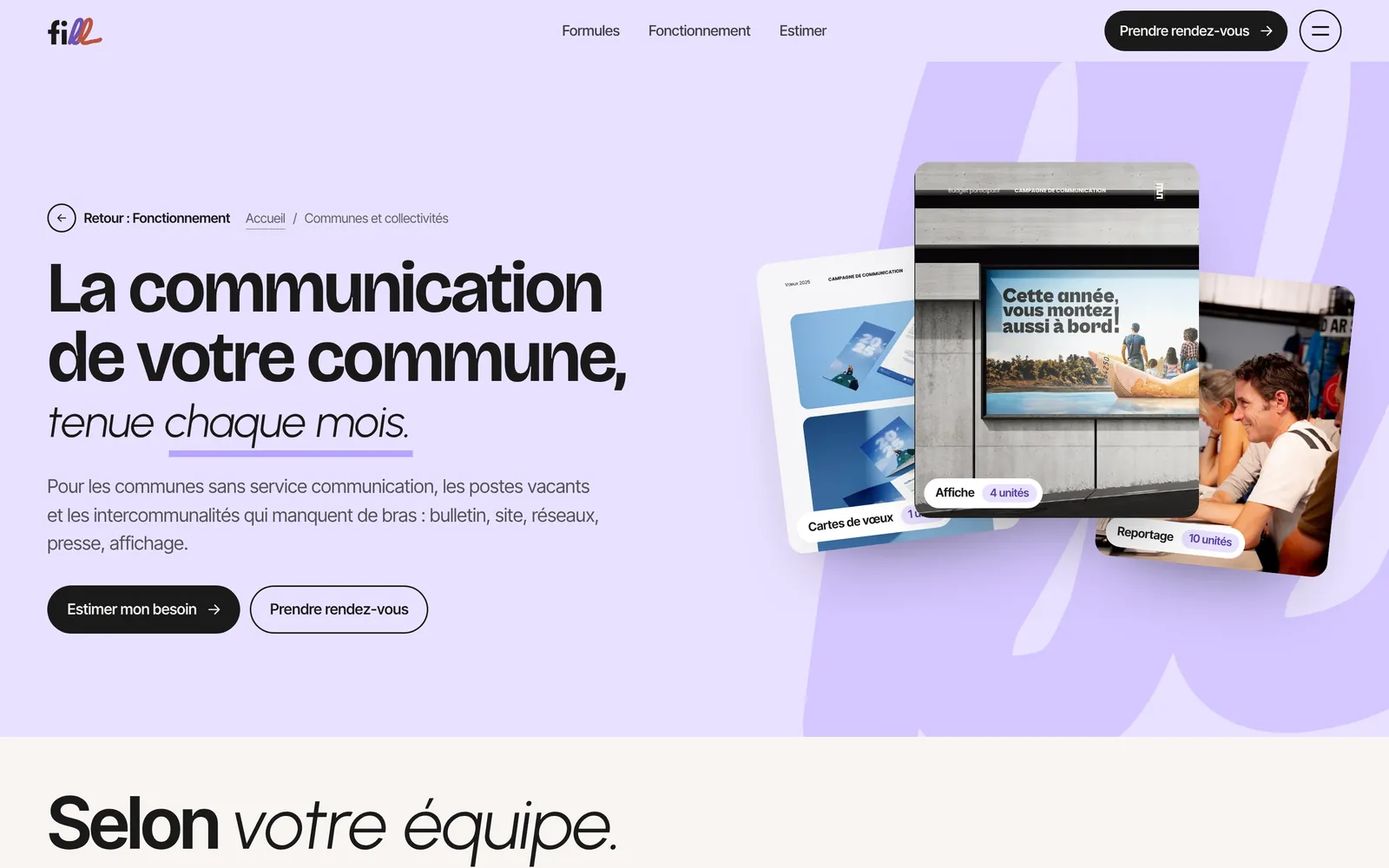
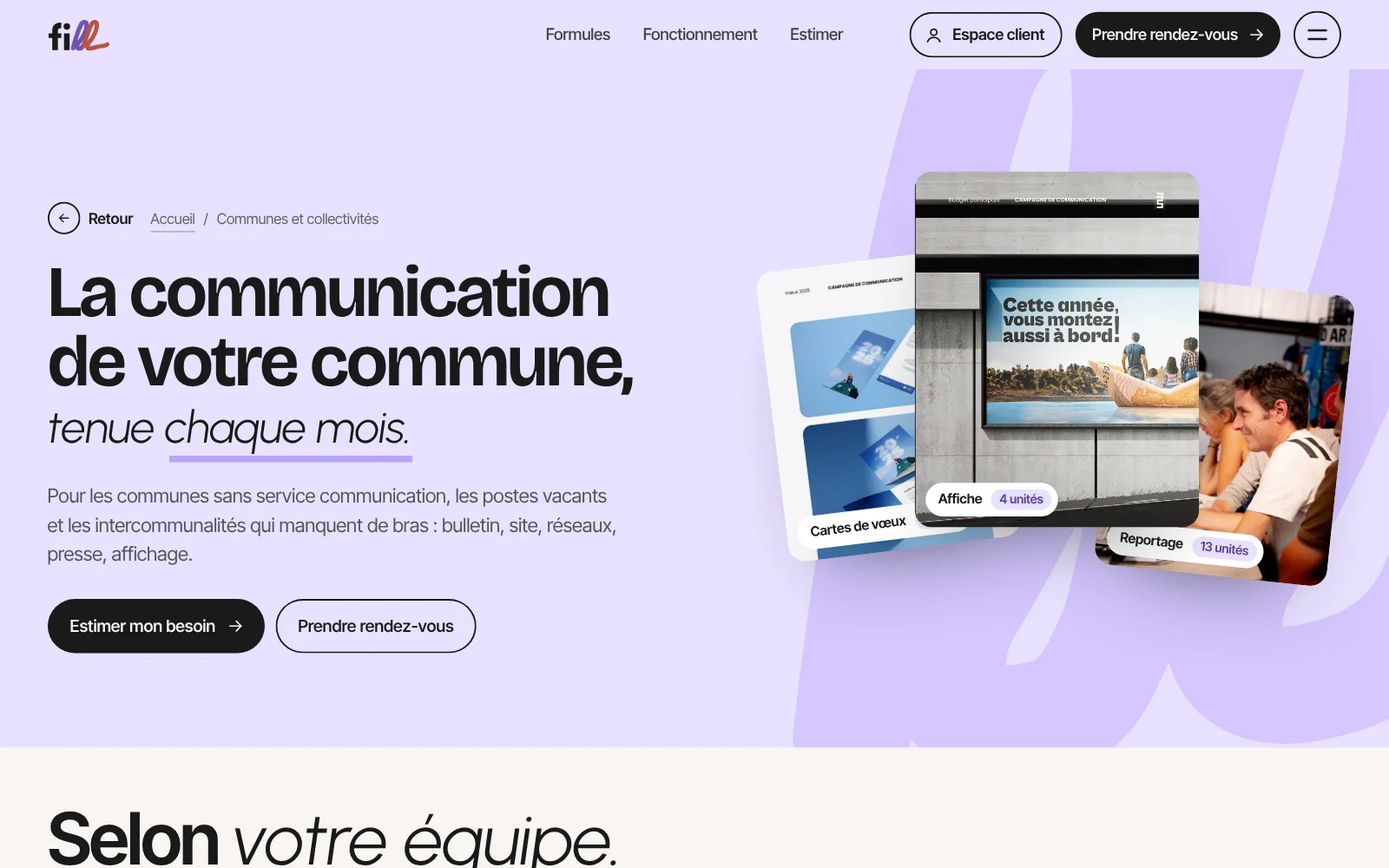
Projet Fill : captures Formules et Collectivités à l'offre en vigueur (15 unités, reportage 13), simulateur en cinq questions
Claude-Session: https://claude.ai/code/session_01C8UkoNAeXmpRadbBmaTEQf

diff --git a/metiers/sites-et-outils/index.html b/metiers/sites-et-outils/index.html
@@ -109,7 +109,7 @@
   <span class="fg" style="left:-2vw;bottom:-.34em;--vy:-80px;font-size:calc(var(--fg-t) * .8)" aria-hidden="true">Écrans</span>
   <div class="w">
     <div class="sec-t rv"><div><p class="pt"><i>01</i><span>Réalisations</span></p><h2 class="d" id="t-vi">Réalisations web<span class="it">Un projet, un usage.</span></h2></div></div>
-    <div class="vi rv"><div class="vt" role="tablist" aria-label="Projets web"><button type="button" role="tab" id="vt-pierceval" aria-controls="vp-pierceval" aria-selected="true"><b>Pierceval Tattoo</b><span>Site, réservation, carte cadeau</span></button><button type="button" role="tab" id="vt-soute" aria-controls="vp-soute" aria-selected="false" tabindex="-1"><b>La Soute</b><span>Site de saison et billetterie</span></button><button type="button" role="tab" id="vt-fill" aria-controls="vp-fill" aria-selected="false" tabindex="-1"><b>Fill</b><span>Marque, site et simulateur</span></button><button type="button" role="tab" id="vt-flouz" aria-controls="vp-flouz" aria-selected="false" tabindex="-1"><b>flouz.</b><span>Application de budget</span></button><button type="button" role="tab" id="vt-plateforme" aria-controls="vp-plateforme" aria-selected="false" tabindex="-1"><b>Plateforme interne</b><span>Outil de gestion</span></button></div><div class="vp" role="tabpanel" id="vp-pierceval" aria-labelledby="vt-pierceval"><div class="vp-t"><p class="vp-k">Fonctionnalités</p><div class="vp-f"><button type="button" aria-pressed="true" data-j="0"><b>Accueil</b><span>Les deux métiers dès l’ouverture, et la prise de rendez-vous à portée de pouce.</span></button><button type="button" aria-pressed="false" data-j="1"><b>Réservation</b><span>Deux parcours, tatouage ou piercing : la demande arrive complète, avec le projet et les disponibilités.</span></button><button type="button" aria-pressed="false" data-j="2"><b>Carte cadeau</b><span>Montant, message et destinataire choisis en ligne ; la carte arrive en PDF, prête à offrir.</span></button><button type="button" aria-pressed="false" data-j="3"><b>Réalisations</b><span>Les tatouages classés par style, pour se décider avant même d’appeler.</span></button></div><p class="vp-da"><b>Direction artistique</b>Identité et site conçus ensemble : un fond prune, un rose franc, un lettrage italique qui rappelle l’enseigne.</p><a class="bt" href="/projets/pierceval-tattoo/">Voir l’étude de cas <span class="ar"><svg class="i"><use href="#ar"/></svg></span></a></div><div class="vp-s"><div class="vsc on" data-j="0"><div class="vs vs-ecran"><div class="vs-ec"><div class="wb-bar"><i></i><i></i><i></i><em>piercevaltattoo.fr</em></div><div class="vs-pg"><img data-v="d" src="/projets/pierceval-tattoo/img/d-hero.webp" srcset="/projets/pierceval-tattoo/img/d-hero-800.webp 800w, /projets/pierceval-tattoo/img/d-hero.webp 1440w" sizes="(max-width:860px) 92vw, 50vw" alt="Pierceval Tattoo sur ordinateur" loading="lazy"></div></div><div class="vs-tel"><img data-v="m" src="/projets/pierceval-tattoo/img/t-hero.webp" alt="Pierceval Tattoo sur téléphone" loading="lazy"></div></div></div><div class="vsc" data-j="1" hidden><div class="vs vs-ecran"><div class="vs-ec"><div class="wb-bar"><i></i><i></i><i></i><em>piercevaltattoo.fr</em></div><div class="vs-pg"><img data-v="d" src="/projets/pierceval-tattoo/img/d-rdv-type.webp" srcset="/projets/pierceval-tattoo/img/d-rdv-type-800.webp 800w, /projets/pierceval-tattoo/img/d-rdv-type.webp 1440w" sizes="(max-width:860px) 92vw, 50vw" alt="Pierceval Tattoo sur ordinateur" loading="lazy"></div></div><div class="vs-tel"><img data-v="m" src="/projets/pierceval-tattoo/img/t-rdv-type.webp" alt="Pierceval Tattoo sur téléphone" loading="lazy"></div></div></div><div class="vsc" data-j="2" hidden><div class="vs vs-ecran"><div class="vs-ec"><div class="wb-bar"><i></i><i></i><i></i><em>piercevaltattoo.fr</em></div><div class="vs-pg"><img data-v="d" src="/projets/pierceval-tattoo/img/d-cadeau-ok.webp" srcset="/projets/pierceval-tattoo/img/d-cadeau-ok-800.webp 800w, /projets/pierceval-tattoo/img/d-cadeau-ok.webp 1440w" sizes="(max-width:860px) 92vw, 50vw" alt="Pierceval Tattoo sur ordinateur" loading="lazy"></div></div><div class="vs-tel"><img data-v="m" src="/projets/pierceval-tattoo/img/t-cadeau.webp" alt="Pierceval Tattoo sur téléphone" loading="lazy"></div></div></div><div class="vsc" data-j="3" hidden><div class="vs vs-ecran"><div class="vs-ec"><div class="wb-bar"><i></i><i></i><i></i><em>piercevaltattoo.fr</em></div><div class="vs-pg"><img data-v="d" src="/projets/pierceval-tattoo/img/d-real.webp" srcset="/projets/pierceval-tattoo/img/d-real-800.webp 800w, /projets/pierceval-tattoo/img/d-real.webp 1440w" sizes="(max-width:860px) 92vw, 50vw" alt="Pierceval Tattoo sur ordinateur" loading="lazy"></div></div><div class="vs-tel"><img data-v="m" src="/projets/pierceval-tattoo/img/t-real.webp" alt="Pierceval Tattoo sur téléphone" loading="lazy"></div></div></div></div></div><div class="vp" role="tabpanel" id="vp-soute" aria-labelledby="vt-soute" hidden><div class="vp-t"><p class="vp-k">Fonctionnalités</p><div class="vp-f"><button type="button" aria-pressed="true" data-j="0"><b>Accueil</b><span>La saison en une phrase, le prochain concert et l’accès direct à l’agenda.</span></button><button type="button" aria-pressed="false" data-j="1"><b>Agenda</b><span>Toute la saison, filtrée par style et par mois, une ligne par date.</span></button><button type="button" aria-pressed="false" data-j="2"><b>Billetterie</b><span>Les places se choisissent par tarif sans quitter la fiche du concert.</span></button><button type="button" aria-pressed="false" data-j="3"><b>Menu</b><span>Les concerts du mois, les styles et le temps fort, dès le survol du menu.</span></button></div><p class="vp-da"><b>Direction artistique</b>Le O de Soute devient un hublot : le même signe sert de logo, de cadre photo et de repère sur le site, la brochure et les affiches.</p><a class="bt" href="/projets/la-soute/">Voir l’étude de cas <span class="ar"><svg class="i"><use href="#ar"/></svg></span></a></div><div class="vp-s"><div class="vsc on" data-j="0"><div class="vs vs-ecran"><div class="vs-ec"><div class="wb-bar"><i></i><i></i><i></i><em></em></div><div class="vs-pg"><img data-v="d" src="/projets/la-soute/img/d-accueil.webp" srcset="/projets/la-soute/img/d-accueil-800.webp 800w, /projets/la-soute/img/d-accueil.webp 1600w" sizes="(max-width:860px) 92vw, 50vw" alt="La Soute sur ordinateur" loading="lazy"></div></div><div class="vs-tel"><img data-v="m" src="/projets/la-soute/img/m-accueil.webp" alt="La Soute sur téléphone" loading="lazy"></div></div></div><div class="vsc" data-j="1" hidden><div class="vs vs-ecran"><div class="vs-ec"><div class="wb-bar"><i></i><i></i><i></i><em></em></div><div class="vs-pg"><img data-v="d" src="/projets/la-soute/img/d-agenda.webp" srcset="/projets/la-soute/img/d-agenda-800.webp 800w, /projets/la-soute/img/d-agenda.webp 1600w" sizes="(max-width:860px) 92vw, 50vw" alt="La Soute sur ordinateur" loading="lazy"></div></div><div class="vs-tel"><img data-v="m" src="/projets/la-soute/img/m-agenda.webp" alt="La Soute sur téléphone" loading="lazy"></div></div></div><div class="vsc" data-j="2" hidden><div class="vs vs-ecran"><div class="vs-ec"><div class="wb-bar"><i></i><i></i><i></i><em></em></div><div class="vs-pg"><img data-v="d" src="/projets/la-soute/img/d-billetterie.webp" srcset="/projets/la-soute/img/d-billetterie-800.webp 800w, /projets/la-soute/img/d-billetterie.webp 1600w" sizes="(max-width:860px) 92vw, 50vw" alt="La Soute sur ordinateur" loading="lazy"></div></div><div class="vs-tel"><img data-v="m" src="/projets/la-soute/img/m-billetterie.webp" alt="La Soute sur téléphone" loading="lazy"></div></div></div><div class="vsc" data-j="3" hidden><div class="vs vs-ecran"><div class="vs-ec"><div class="wb-bar"><i></i><i></i><i></i><em></em></div><div class="vs-pg"><img data-v="d" src="/projets/la-soute/img/d-menu.webp" srcset="/projets/la-soute/img/d-menu-800.webp 800w, /projets/la-soute/img/d-menu.webp 1600w" sizes="(max-width:860px) 92vw, 50vw" alt="La Soute sur ordinateur" loading="lazy"></div></div><div class="vs-tel"><img data-v="m" src="/projets/la-soute/img/m-menu.webp" alt="La Soute sur téléphone" loading="lazy"></div></div></div></div></div><div class="vp" role="tabpanel" id="vp-fill" aria-labelledby="vt-fill" hidden><div class="vp-t"><p class="vp-k">Fonctionnalités</p><div class="vp-f"><button type="button" aria-pressed="true" data-j="0"><b>Accueil</b><span>Une bascule commune ou entreprise change les exemples, les supports et le vocabulaire de toute la page.</span></button><button type="button" aria-pressed="false" data-j="1"><b>Simulateur</b><span>Quatre questions ou une composition libre : une formule recommandée, justifiée unité par unité.</span></button><button type="button" aria-pressed="false" data-j="2"><b>Fonctionnement</b><span>Comment une demande arrive, qui la traite et en combien de temps, écrit d’avance.</span></button><button type="button" aria-pressed="false" data-j="3"><b>Calendrier</b><span>Les temps forts de la saison, pour anticiper les campagnes.</span></button></div><p class="vp-da"><b>Direction artistique</b>Un nom qui se lit deux fois : « fil » en plein, le second « l » au trait. Un fond lavande, un violet franc pour l’action.</p><a class="bt" href="/projets/fill/">Voir l’étude de cas <span class="ar"><svg class="i"><use href="#ar"/></svg></span></a></div><div class="vp-s"><div class="vsc on" data-j="0"><div class="vs vs-ecran"><div class="vs-ec"><div class="wb-bar"><i></i><i></i><i></i><em>fill.studioes.fr</em></div><div class="vs-pg"><img data-v="d" src="/projets/fill/img/d-accueil.webp" srcset="/projets/fill/img/d-accueil-800.webp 800w, /projets/fill/img/d-accueil.webp 1600w" sizes="(max-width:860px) 92vw, 50vw" alt="Fill sur ordinateur" loading="lazy"></div></div><div class="vs-tel"><img data-v="m" src="/projets/fill/img/t-accueil.webp" alt="Fill sur téléphone" loading="lazy"></div></div></div><div class="vsc" data-j="1" hidden><div class="vs vs-ecran"><div class="vs-ec"><div class="wb-bar"><i></i><i></i><i></i><em>fill.studioes.fr</em></div><div class="vs-pg"><img data-v="d" src="/projets/fill/img/d-simulateur.webp" srcset="/projets/fill/img/d-simulateur-800.webp 800w, /projets/fill/img/d-simulateur.webp 1600w" sizes="(max-width:860px) 92vw, 50vw" alt="Fill sur ordinateur" loading="lazy"></div></div><div class="vs-tel"><img data-v="m" src="/projets/fill/img/t-simulateur.webp" alt="Fill sur téléphone" loading="lazy"></div></div></div><div class="vsc" data-j="2" hidden><div class="vs vs-ecran"><div class="vs-ec"><div class="wb-bar"><i></i><i></i><i></i><em>fill.studioes.fr</em></div><div class="vs-pg"><img data-v="d" src="/projets/fill/img/d-fonctionnement.webp" srcset="/projets/fill/img/d-fonctionnement-800.webp 800w, /projets/fill/img/d-fonctionnement.webp 1600w" sizes="(max-width:860px) 92vw, 50vw" alt="Fill sur ordinateur" loading="lazy"></div></div><div class="vs-tel"><img data-v="m" src="/projets/fill/img/t-fonctionnement.webp" alt="Fill sur téléphone" loading="lazy"></div></div></div><div class="vsc" data-j="3" hidden><div class="vs vs-ecran"><div class="vs-ec"><div class="wb-bar"><i></i><i></i><i></i><em>fill.studioes.fr</em></div><div class="vs-pg"><img data-v="d" src="/projets/fill/img/d-calendrier.webp" srcset="/projets/fill/img/d-calendrier-800.webp 800w, /projets/fill/img/d-calendrier.webp 1600w" sizes="(max-width:860px) 92vw, 50vw" alt="Fill sur ordinateur" loading="lazy"></div></div><div class="vs-tel"><img data-v="m" src="/projets/fill/img/t-calendrier.webp" alt="Fill sur téléphone" loading="lazy"></div></div></div></div></div><div class="vp" role="tabpanel" id="vp-flouz" aria-labelledby="vt-flouz" hidden><div class="vp-t"><p class="vp-k">Fonctionnalités</p><div class="vp-f"><button type="button" aria-pressed="true" data-j="0"><b>Tableau de bord</b><span>Le solde, le mois en cours et les dépenses épinglées sur un seul écran.</span></button><button type="button" aria-pressed="false" data-j="1"><b>Budgets</b><span>Chaque catégorie a sa jauge ; l’application prévient avant le dépassement.</span></button><button type="button" aria-pressed="false" data-j="2"><b>Objectifs</b><span>Ce qu’il reste à mettre de côté chaque mois pour atteindre un objectif à temps.</span></button></div><p class="vp-da"><b>Direction artistique</b>Une interface sombre, un seul violet pour l’essentiel : le solde, les budgets, les alertes.</p><a class="bt" href="/projets/flouz/">Voir l’étude de cas <span class="ar"><svg class="i"><use href="#ar"/></svg></span></a></div><div class="vp-s"><div class="vsc on" data-j="0"><div class="vs vs-img"><img data-v="d" src="/projets/flouz/img/tableau.webp" srcset="/projets/flouz/img/tableau-800.webp 800w, /projets/flouz/img/tableau.webp 1200w" sizes="(max-width:860px) 92vw, 50vw" alt="flouz." loading="lazy"></div></div><div class="vsc" data-j="1" hidden><div class="vs vs-img"><img data-v="d" src="/projets/flouz/img/budget.webp" srcset="/projets/flouz/img/budget-800.webp 800w, /projets/flouz/img/budget.webp 1200w" sizes="(max-width:860px) 92vw, 50vw" alt="flouz." loading="lazy"></div></div><div class="vsc" data-j="2" hidden><div class="vs vs-img"><img data-v="d" src="/projets/flouz/img/objectifs.webp" srcset="/projets/flouz/img/objectifs-800.webp 800w, /projets/flouz/img/objectifs.webp 1200w" sizes="(max-width:860px) 92vw, 50vw" alt="flouz." loading="lazy"></div></div></div></div><div class="vp" role="tabpanel" id="vp-plateforme" aria-labelledby="vt-plateforme" hidden><div class="vp-t"><p class="vp-k">Fonctionnalités</p><div class="vp-f"><button type="button" aria-pressed="true" data-j="0"><b>Accueil</b><span>Ce qui attend, dans l’ordre : la prochaine action d’abord, puis le reste.</span></button><button type="button" aria-pressed="false" data-j="1"><b>Prospection</b><span>Chaque matin, des prospects vérifiés, un message rédigé et ses relances : il ne reste qu’à valider.</span></button><button type="button" aria-pressed="false" data-j="2"><b>Clients</b><span>Du premier contact au paiement, chaque relation avance d’étape en étape.</span></button><button type="button" aria-pressed="false" data-j="3"><b>Argent</b><span>Encaissé, attendu, à relancer : relevé automatiquement depuis la banque.</span></button></div><p class="vp-da"><b>Direction artistique</b>Une base claire, un vert d’eau pour ce qui attend une action, des cartes qui se lisent d’un coup d’œil.</p><a class="bt" href="/projets/plateforme-interne/">Voir l’étude de cas <span class="ar"><svg class="i"><use href="#ar"/></svg></span></a></div><div class="vp-s"><div class="vsc on" data-j="0"><div class="vs vs-ecran"><div class="vs-ec"><div class="wb-bar"><i></i><i></i><i></i><em></em></div><div class="vs-pg"><img data-v="d" src="/projets/plateforme-interne/img/d-maintenant.webp" srcset="/projets/plateforme-interne/img/d-maintenant-800.webp 800w, /projets/plateforme-interne/img/d-maintenant.webp 1600w" sizes="(max-width:860px) 92vw, 50vw" alt="Plateforme interne sur ordinateur" loading="lazy"></div></div><div class="vs-tel"><img data-v="m" src="/projets/plateforme-interne/img/t-maintenant.webp" alt="Plateforme interne sur téléphone" loading="lazy"></div></div></div><div class="vsc" data-j="1" hidden><div class="vs vs-ecran"><div class="vs-ec"><div class="wb-bar"><i></i><i></i><i></i><em></em></div><div class="vs-pg"><img data-v="d" src="/projets/plateforme-interne/img/d-prospection.webp" srcset="/projets/plateforme-interne/img/d-prospection-800.webp 800w, /projets/plateforme-interne/img/d-prospection.webp 1600w" sizes="(max-width:860px) 92vw, 50vw" alt="Plateforme interne sur ordinateur" loading="lazy"></div></div><div class="vs-tel"><img data-v="m" src="/projets/plateforme-interne/img/t-prospection.webp" alt="Plateforme interne sur téléphone" loading="lazy"></div></div></div><div class="vsc" data-j="2" hidden><div class="vs vs-ecran"><div class="vs-ec"><div class="wb-bar"><i></i><i></i><i></i><em></em></div><div class="vs-pg"><img data-v="d" src="/projets/plateforme-interne/img/d-clients.webp" srcset="/projets/plateforme-interne/img/d-clients-800.webp 800w, /projets/plateforme-interne/img/d-clients.webp 1600w" sizes="(max-width:860px) 92vw, 50vw" alt="Plateforme interne sur ordinateur" loading="lazy"></div></div><div class="vs-tel"><img data-v="m" src="/projets/plateforme-interne/img/t-clients.webp" alt="Plateforme interne sur téléphone" loading="lazy"></div></div></div><div class="vsc" data-j="3" hidden><div class="vs vs-ecran"><div class="vs-ec"><div class="wb-bar"><i></i><i></i><i></i><em></em></div><div class="vs-pg"><img data-v="d" src="/projets/plateforme-interne/img/d-argent.webp" srcset="/projets/plateforme-interne/img/d-argent-800.webp 800w, /projets/plateforme-interne/img/d-argent.webp 1600w" sizes="(max-width:860px) 92vw, 50vw" alt="Plateforme interne sur ordinateur" loading="lazy"></div></div><div class="vs-tel"><img data-v="m" src="/projets/plateforme-interne/img/t-argent.webp" alt="Plateforme interne sur téléphone" loading="lazy"></div></div></div></div></div></div>
+    <div class="vi rv"><div class="vt" role="tablist" aria-label="Projets web"><button type="button" role="tab" id="vt-pierceval" aria-controls="vp-pierceval" aria-selected="true"><b>Pierceval Tattoo</b><span>Site, réservation, carte cadeau</span></button><button type="button" role="tab" id="vt-soute" aria-controls="vp-soute" aria-selected="false" tabindex="-1"><b>La Soute</b><span>Site de saison et billetterie</span></button><button type="button" role="tab" id="vt-fill" aria-controls="vp-fill" aria-selected="false" tabindex="-1"><b>Fill</b><span>Marque, site et simulateur</span></button><button type="button" role="tab" id="vt-flouz" aria-controls="vp-flouz" aria-selected="false" tabindex="-1"><b>flouz.</b><span>Application de budget</span></button><button type="button" role="tab" id="vt-plateforme" aria-controls="vp-plateforme" aria-selected="false" tabindex="-1"><b>Plateforme interne</b><span>Outil de gestion</span></button></div><div class="vp" role="tabpanel" id="vp-pierceval" aria-labelledby="vt-pierceval"><div class="vp-t"><p class="vp-k">Fonctionnalités</p><div class="vp-f"><button type="button" aria-pressed="true" data-j="0"><b>Accueil</b><span>Les deux métiers dès l’ouverture, et la prise de rendez-vous à portée de pouce.</span></button><button type="button" aria-pressed="false" data-j="1"><b>Réservation</b><span>Deux parcours, tatouage ou piercing : la demande arrive complète, avec le projet et les disponibilités.</span></button><button type="button" aria-pressed="false" data-j="2"><b>Carte cadeau</b><span>Montant, message et destinataire choisis en ligne ; la carte arrive en PDF, prête à offrir.</span></button><button type="button" aria-pressed="false" data-j="3"><b>Réalisations</b><span>Les tatouages classés par style, pour se décider avant même d’appeler.</span></button></div><p class="vp-da"><b>Direction artistique</b>Identité et site conçus ensemble : un fond prune, un rose franc, un lettrage italique qui rappelle l’enseigne.</p><a class="bt" href="/projets/pierceval-tattoo/">Voir l’étude de cas <span class="ar"><svg class="i"><use href="#ar"/></svg></span></a></div><div class="vp-s"><div class="vsc on" data-j="0"><div class="vs vs-ecran"><div class="vs-ec"><div class="wb-bar"><i></i><i></i><i></i><em>piercevaltattoo.fr</em></div><div class="vs-pg"><img data-v="d" src="/projets/pierceval-tattoo/img/d-hero.webp" srcset="/projets/pierceval-tattoo/img/d-hero-800.webp 800w, /projets/pierceval-tattoo/img/d-hero.webp 1440w" sizes="(max-width:860px) 92vw, 50vw" alt="Pierceval Tattoo sur ordinateur" loading="lazy"></div></div><div class="vs-tel"><img data-v="m" src="/projets/pierceval-tattoo/img/t-hero.webp" alt="Pierceval Tattoo sur téléphone" loading="lazy"></div></div></div><div class="vsc" data-j="1" hidden><div class="vs vs-ecran"><div class="vs-ec"><div class="wb-bar"><i></i><i></i><i></i><em>piercevaltattoo.fr</em></div><div class="vs-pg"><img data-v="d" src="/projets/pierceval-tattoo/img/d-rdv-type.webp" srcset="/projets/pierceval-tattoo/img/d-rdv-type-800.webp 800w, /projets/pierceval-tattoo/img/d-rdv-type.webp 1440w" sizes="(max-width:860px) 92vw, 50vw" alt="Pierceval Tattoo sur ordinateur" loading="lazy"></div></div><div class="vs-tel"><img data-v="m" src="/projets/pierceval-tattoo/img/t-rdv-type.webp" alt="Pierceval Tattoo sur téléphone" loading="lazy"></div></div></div><div class="vsc" data-j="2" hidden><div class="vs vs-ecran"><div class="vs-ec"><div class="wb-bar"><i></i><i></i><i></i><em>piercevaltattoo.fr</em></div><div class="vs-pg"><img data-v="d" src="/projets/pierceval-tattoo/img/d-cadeau-ok.webp" srcset="/projets/pierceval-tattoo/img/d-cadeau-ok-800.webp 800w, /projets/pierceval-tattoo/img/d-cadeau-ok.webp 1440w" sizes="(max-width:860px) 92vw, 50vw" alt="Pierceval Tattoo sur ordinateur" loading="lazy"></div></div><div class="vs-tel"><img data-v="m" src="/projets/pierceval-tattoo/img/t-cadeau.webp" alt="Pierceval Tattoo sur téléphone" loading="lazy"></div></div></div><div class="vsc" data-j="3" hidden><div class="vs vs-ecran"><div class="vs-ec"><div class="wb-bar"><i></i><i></i><i></i><em>piercevaltattoo.fr</em></div><div class="vs-pg"><img data-v="d" src="/projets/pierceval-tattoo/img/d-real.webp" srcset="/projets/pierceval-tattoo/img/d-real-800.webp 800w, /projets/pierceval-tattoo/img/d-real.webp 1440w" sizes="(max-width:860px) 92vw, 50vw" alt="Pierceval Tattoo sur ordinateur" loading="lazy"></div></div><div class="vs-tel"><img data-v="m" src="/projets/pierceval-tattoo/img/t-real.webp" alt="Pierceval Tattoo sur téléphone" loading="lazy"></div></div></div></div></div><div class="vp" role="tabpanel" id="vp-soute" aria-labelledby="vt-soute" hidden><div class="vp-t"><p class="vp-k">Fonctionnalités</p><div class="vp-f"><button type="button" aria-pressed="true" data-j="0"><b>Accueil</b><span>La saison en une phrase, le prochain concert et l’accès direct à l’agenda.</span></button><button type="button" aria-pressed="false" data-j="1"><b>Agenda</b><span>Toute la saison, filtrée par style et par mois, une ligne par date.</span></button><button type="button" aria-pressed="false" data-j="2"><b>Billetterie</b><span>Les places se choisissent par tarif sans quitter la fiche du concert.</span></button><button type="button" aria-pressed="false" data-j="3"><b>Menu</b><span>Les concerts du mois, les styles et le temps fort, dès le survol du menu.</span></button></div><p class="vp-da"><b>Direction artistique</b>Le O de Soute devient un hublot : le même signe sert de logo, de cadre photo et de repère sur le site, la brochure et les affiches.</p><a class="bt" href="/projets/la-soute/">Voir l’étude de cas <span class="ar"><svg class="i"><use href="#ar"/></svg></span></a></div><div class="vp-s"><div class="vsc on" data-j="0"><div class="vs vs-ecran"><div class="vs-ec"><div class="wb-bar"><i></i><i></i><i></i><em></em></div><div class="vs-pg"><img data-v="d" src="/projets/la-soute/img/d-accueil.webp" srcset="/projets/la-soute/img/d-accueil-800.webp 800w, /projets/la-soute/img/d-accueil.webp 1600w" sizes="(max-width:860px) 92vw, 50vw" alt="La Soute sur ordinateur" loading="lazy"></div></div><div class="vs-tel"><img data-v="m" src="/projets/la-soute/img/m-accueil.webp" alt="La Soute sur téléphone" loading="lazy"></div></div></div><div class="vsc" data-j="1" hidden><div class="vs vs-ecran"><div class="vs-ec"><div class="wb-bar"><i></i><i></i><i></i><em></em></div><div class="vs-pg"><img data-v="d" src="/projets/la-soute/img/d-agenda.webp" srcset="/projets/la-soute/img/d-agenda-800.webp 800w, /projets/la-soute/img/d-agenda.webp 1600w" sizes="(max-width:860px) 92vw, 50vw" alt="La Soute sur ordinateur" loading="lazy"></div></div><div class="vs-tel"><img data-v="m" src="/projets/la-soute/img/m-agenda.webp" alt="La Soute sur téléphone" loading="lazy"></div></div></div><div class="vsc" data-j="2" hidden><div class="vs vs-ecran"><div class="vs-ec"><div class="wb-bar"><i></i><i></i><i></i><em></em></div><div class="vs-pg"><img data-v="d" src="/projets/la-soute/img/d-billetterie.webp" srcset="/projets/la-soute/img/d-billetterie-800.webp 800w, /projets/la-soute/img/d-billetterie.webp 1600w" sizes="(max-width:860px) 92vw, 50vw" alt="La Soute sur ordinateur" loading="lazy"></div></div><div class="vs-tel"><img data-v="m" src="/projets/la-soute/img/m-billetterie.webp" alt="La Soute sur téléphone" loading="lazy"></div></div></div><div class="vsc" data-j="3" hidden><div class="vs vs-ecran"><div class="vs-ec"><div class="wb-bar"><i></i><i></i><i></i><em></em></div><div class="vs-pg"><img data-v="d" src="/projets/la-soute/img/d-menu.webp" srcset="/projets/la-soute/img/d-menu-800.webp 800w, /projets/la-soute/img/d-menu.webp 1600w" sizes="(max-width:860px) 92vw, 50vw" alt="La Soute sur ordinateur" loading="lazy"></div></div><div class="vs-tel"><img data-v="m" src="/projets/la-soute/img/m-menu.webp" alt="La Soute sur téléphone" loading="lazy"></div></div></div></div></div><div class="vp" role="tabpanel" id="vp-fill" aria-labelledby="vt-fill" hidden><div class="vp-t"><p class="vp-k">Fonctionnalités</p><div class="vp-f"><button type="button" aria-pressed="true" data-j="0"><b>Accueil</b><span>Une bascule commune ou entreprise change les exemples, les supports et le vocabulaire de toute la page.</span></button><button type="button" aria-pressed="false" data-j="1"><b>Simulateur</b><span>Cinq questions ou une composition libre : une formule recommandée, justifiée unité par unité.</span></button><button type="button" aria-pressed="false" data-j="2"><b>Fonctionnement</b><span>Comment une demande arrive, qui la traite et en combien de temps, écrit d’avance.</span></button><button type="button" aria-pressed="false" data-j="3"><b>Calendrier</b><span>Les temps forts de la saison, pour anticiper les campagnes.</span></button></div><p class="vp-da"><b>Direction artistique</b>Un nom qui se lit deux fois : « fil » en plein, le second « l » au trait. Un fond lavande, un violet franc pour l’action.</p><a class="bt" href="/projets/fill/">Voir l’étude de cas <span class="ar"><svg class="i"><use href="#ar"/></svg></span></a></div><div class="vp-s"><div class="vsc on" data-j="0"><div class="vs vs-ecran"><div class="vs-ec"><div class="wb-bar"><i></i><i></i><i></i><em>fill.studioes.fr</em></div><div class="vs-pg"><img data-v="d" src="/projets/fill/img/d-accueil.webp" srcset="/projets/fill/img/d-accueil-800.webp 800w, /projets/fill/img/d-accueil.webp 1600w" sizes="(max-width:860px) 92vw, 50vw" alt="Fill sur ordinateur" loading="lazy"></div></div><div class="vs-tel"><img data-v="m" src="/projets/fill/img/t-accueil.webp" alt="Fill sur téléphone" loading="lazy"></div></div></div><div class="vsc" data-j="1" hidden><div class="vs vs-ecran"><div class="vs-ec"><div class="wb-bar"><i></i><i></i><i></i><em>fill.studioes.fr</em></div><div class="vs-pg"><img data-v="d" src="/projets/fill/img/d-simulateur.webp" srcset="/projets/fill/img/d-simulateur-800.webp 800w, /projets/fill/img/d-simulateur.webp 1600w" sizes="(max-width:860px) 92vw, 50vw" alt="Fill sur ordinateur" loading="lazy"></div></div><div class="vs-tel"><img data-v="m" src="/projets/fill/img/t-simulateur.webp" alt="Fill sur téléphone" loading="lazy"></div></div></div><div class="vsc" data-j="2" hidden><div class="vs vs-ecran"><div class="vs-ec"><div class="wb-bar"><i></i><i></i><i></i><em>fill.studioes.fr</em></div><div class="vs-pg"><img data-v="d" src="/projets/fill/img/d-fonctionnement.webp" srcset="/projets/fill/img/d-fonctionnement-800.webp 800w, /projets/fill/img/d-fonctionnement.webp 1600w" sizes="(max-width:860px) 92vw, 50vw" alt="Fill sur ordinateur" loading="lazy"></div></div><div class="vs-tel"><img data-v="m" src="/projets/fill/img/t-fonctionnement.webp" alt="Fill sur téléphone" loading="lazy"></div></div></div><div class="vsc" data-j="3" hidden><div class="vs vs-ecran"><div class="vs-ec"><div class="wb-bar"><i></i><i></i><i></i><em>fill.studioes.fr</em></div><div class="vs-pg"><img data-v="d" src="/projets/fill/img/d-calendrier.webp" srcset="/projets/fill/img/d-calendrier-800.webp 800w, /projets/fill/img/d-calendrier.webp 1600w" sizes="(max-width:860px) 92vw, 50vw" alt="Fill sur ordinateur" loading="lazy"></div></div><div class="vs-tel"><img data-v="m" src="/projets/fill/img/t-calendrier.webp" alt="Fill sur téléphone" loading="lazy"></div></div></div></div></div><div class="vp" role="tabpanel" id="vp-flouz" aria-labelledby="vt-flouz" hidden><div class="vp-t"><p class="vp-k">Fonctionnalités</p><div class="vp-f"><button type="button" aria-pressed="true" data-j="0"><b>Tableau de bord</b><span>Le solde, le mois en cours et les dépenses épinglées sur un seul écran.</span></button><button type="button" aria-pressed="false" data-j="1"><b>Budgets</b><span>Chaque catégorie a sa jauge ; l’application prévient avant le dépassement.</span></button><button type="button" aria-pressed="false" data-j="2"><b>Objectifs</b><span>Ce qu’il reste à mettre de côté chaque mois pour atteindre un objectif à temps.</span></button></div><p class="vp-da"><b>Direction artistique</b>Une interface sombre, un seul violet pour l’essentiel : le solde, les budgets, les alertes.</p><a class="bt" href="/projets/flouz/">Voir l’étude de cas <span class="ar"><svg class="i"><use href="#ar"/></svg></span></a></div><div class="vp-s"><div class="vsc on" data-j="0"><div class="vs vs-img"><img data-v="d" src="/projets/flouz/img/tableau.webp" srcset="/projets/flouz/img/tableau-800.webp 800w, /projets/flouz/img/tableau.webp 1200w" sizes="(max-width:860px) 92vw, 50vw" alt="flouz." loading="lazy"></div></div><div class="vsc" data-j="1" hidden><div class="vs vs-img"><img data-v="d" src="/projets/flouz/img/budget.webp" srcset="/projets/flouz/img/budget-800.webp 800w, /projets/flouz/img/budget.webp 1200w" sizes="(max-width:860px) 92vw, 50vw" alt="flouz." loading="lazy"></div></div><div class="vsc" data-j="2" hidden><div class="vs vs-img"><img data-v="d" src="/projets/flouz/img/objectifs.webp" srcset="/projets/flouz/img/objectifs-800.webp 800w, /projets/flouz/img/objectifs.webp 1200w" sizes="(max-width:860px) 92vw, 50vw" alt="flouz." loading="lazy"></div></div></div></div><div class="vp" role="tabpanel" id="vp-plateforme" aria-labelledby="vt-plateforme" hidden><div class="vp-t"><p class="vp-k">Fonctionnalités</p><div class="vp-f"><button type="button" aria-pressed="true" data-j="0"><b>Accueil</b><span>Ce qui attend, dans l’ordre : la prochaine action d’abord, puis le reste.</span></button><button type="button" aria-pressed="false" data-j="1"><b>Prospection</b><span>Chaque matin, des prospects vérifiés, un message rédigé et ses relances : il ne reste qu’à valider.</span></button><button type="button" aria-pressed="false" data-j="2"><b>Clients</b><span>Du premier contact au paiement, chaque relation avance d’étape en étape.</span></button><button type="button" aria-pressed="false" data-j="3"><b>Argent</b><span>Encaissé, attendu, à relancer : relevé automatiquement depuis la banque.</span></button></div><p class="vp-da"><b>Direction artistique</b>Une base claire, un vert d’eau pour ce qui attend une action, des cartes qui se lisent d’un coup d’œil.</p><a class="bt" href="/projets/plateforme-interne/">Voir l’étude de cas <span class="ar"><svg class="i"><use href="#ar"/></svg></span></a></div><div class="vp-s"><div class="vsc on" data-j="0"><div class="vs vs-ecran"><div class="vs-ec"><div class="wb-bar"><i></i><i></i><i></i><em></em></div><div class="vs-pg"><img data-v="d" src="/projets/plateforme-interne/img/d-maintenant.webp" srcset="/projets/plateforme-interne/img/d-maintenant-800.webp 800w, /projets/plateforme-interne/img/d-maintenant.webp 1600w" sizes="(max-width:860px) 92vw, 50vw" alt="Plateforme interne sur ordinateur" loading="lazy"></div></div><div class="vs-tel"><img data-v="m" src="/projets/plateforme-interne/img/t-maintenant.webp" alt="Plateforme interne sur téléphone" loading="lazy"></div></div></div><div class="vsc" data-j="1" hidden><div class="vs vs-ecran"><div class="vs-ec"><div class="wb-bar"><i></i><i></i><i></i><em></em></div><div class="vs-pg"><img data-v="d" src="/projets/plateforme-interne/img/d-prospection.webp" srcset="/projets/plateforme-interne/img/d-prospection-800.webp 800w, /projets/plateforme-interne/img/d-prospection.webp 1600w" sizes="(max-width:860px) 92vw, 50vw" alt="Plateforme interne sur ordinateur" loading="lazy"></div></div><div class="vs-tel"><img data-v="m" src="/projets/plateforme-interne/img/t-prospection.webp" alt="Plateforme interne sur téléphone" loading="lazy"></div></div></div><div class="vsc" data-j="2" hidden><div class="vs vs-ecran"><div class="vs-ec"><div class="wb-bar"><i></i><i></i><i></i><em></em></div><div class="vs-pg"><img data-v="d" src="/projets/plateforme-interne/img/d-clients.webp" srcset="/projets/plateforme-interne/img/d-clients-800.webp 800w, /projets/plateforme-interne/img/d-clients.webp 1600w" sizes="(max-width:860px) 92vw, 50vw" alt="Plateforme interne sur ordinateur" loading="lazy"></div></div><div class="vs-tel"><img data-v="m" src="/projets/plateforme-interne/img/t-clients.webp" alt="Plateforme interne sur téléphone" loading="lazy"></div></div></div><div class="vsc" data-j="3" hidden><div class="vs vs-ecran"><div class="vs-ec"><div class="wb-bar"><i></i><i></i><i></i><em></em></div><div class="vs-pg"><img data-v="d" src="/projets/plateforme-interne/img/d-argent.webp" srcset="/projets/plateforme-interne/img/d-argent-800.webp 800w, /projets/plateforme-interne/img/d-argent.webp 1600w" sizes="(max-width:860px) 92vw, 50vw" alt="Plateforme interne sur ordinateur" loading="lazy"></div></div><div class="vs-tel"><img data-v="m" src="/projets/plateforme-interne/img/t-argent.webp" alt="Plateforme interne sur téléphone" loading="lazy"></div></div></div></div></div></div>
   </div>
 </section>
 <section class="sec feuille libre dk wb-o u-foret" id="web" data-dark aria-labelledby="t-of">

diff --git a/js/atelier/bureau.js b/js/atelier/bureau.js
@@ -26,7 +26,7 @@ const PHOTOS = [['franglish', 'franglish-3'], ['helena', 'helena-7'], ['rimk', '
 const FILLP = [
   { u: 'fill.studioes.fr', im: '/projets/fill/img/d-accueil.webp' },
   { u: 'fill.studioes.fr/fonctionnement', im: '/projets/fill/img/d-fonctionnement.webp' },
-  { u: 'fill.studioes.fr/estimer', im: '/projets/fill/img/d-simulateur.webp' }
+  { u: 'fill.studioes.fr/simulateur', im: '/projets/fill/img/d-simulateur.webp' }
 ];
 /* trajet du curseur (temps en ms, position sur l'écran 1600 × 900) : clics sur « Fonctionnement », « Estimer », puis le logo */
 const P0 = [700, 540], L1 = [804, 185], R1 = [1060, 470], L2 = [889, 185], R2 = [529, 610], L0 = [291, 185];

diff --git a/projets/fill/index.html b/projets/fill/index.html
@@ -429,7 +429,7 @@ ul.liv.lr li{width:clamp(230px,24vw,290px)}
   <div class="tx" data-r>
     <span class="n">03</span>
     <h2 class="d" id="c3">Estimer <span class="se">avant d’appeler</span></h2>
-    <p>Quatre questions ou une composition libre : le simulateur propose une formule et la justifie, unité par unité.</p>
+    <p>Cinq questions ou une composition libre : le simulateur propose une formule et la justifie, unité par unité.</p>
   </div>
   <div class="gal3" tabindex="0" role="region" aria-label="Galerie">
     <img data-r src="img/d-simulateur.webp" alt="Le simulateur de Fill sur ordinateur" loading="lazy">

diff --git a/_src/metiers.py b/_src/metiers.py
@@ -106,7 +106,7 @@ VITRINE = [
     ('fill', 'Fill', 'Marque, site et simulateur', '/projets/fill/',
      'Un nom qui se lit deux fois : « fil » en plein, le second « l » au trait. Un fond lavande, un violet franc pour l’action.', [
         ('Accueil', 'Une bascule commune ou entreprise change les exemples, les supports et le vocabulaire de toute la page.', 'ecran', '/projets/fill/img/' + 'd-accueil.webp', '/projets/fill/img/' + 't-accueil.webp', 'fill.studioes.fr'),
-        ('Simulateur', 'Quatre questions ou une composition libre : une formule recommandée, justifiée unité par unité.', 'ecran', '/projets/fill/img/' + 'd-simulateur.webp', '/projets/fill/img/' + 't-simulateur.webp', 'fill.studioes.fr'),
+        ('Simulateur', 'Cinq questions ou une composition libre : une formule recommandée, justifiée unité par unité.', 'ecran', '/projets/fill/img/' + 'd-simulateur.webp', '/projets/fill/img/' + 't-simulateur.webp', 'fill.studioes.fr'),
         ('Fonctionnement', 'Comment une demande arrive, qui la traite et en combien de temps, écrit d’avance.', 'ecran', '/projets/fill/img/' + 'd-fonctionnement.webp', '/projets/fill/img/' + 't-fonctionnement.webp', 'fill.studioes.fr'),
         ('Calendrier', 'Les temps forts de la saison, pour anticiper les campagnes.', 'ecran', '/projets/fill/img/' + 'd-calendrier.webp', '/projets/fill/img/' + 't-calendrier.webp', 'fill.studioes.fr')]),
     ('flouz', 'flouz.', 'Application de budget', '/projets/flouz/',
